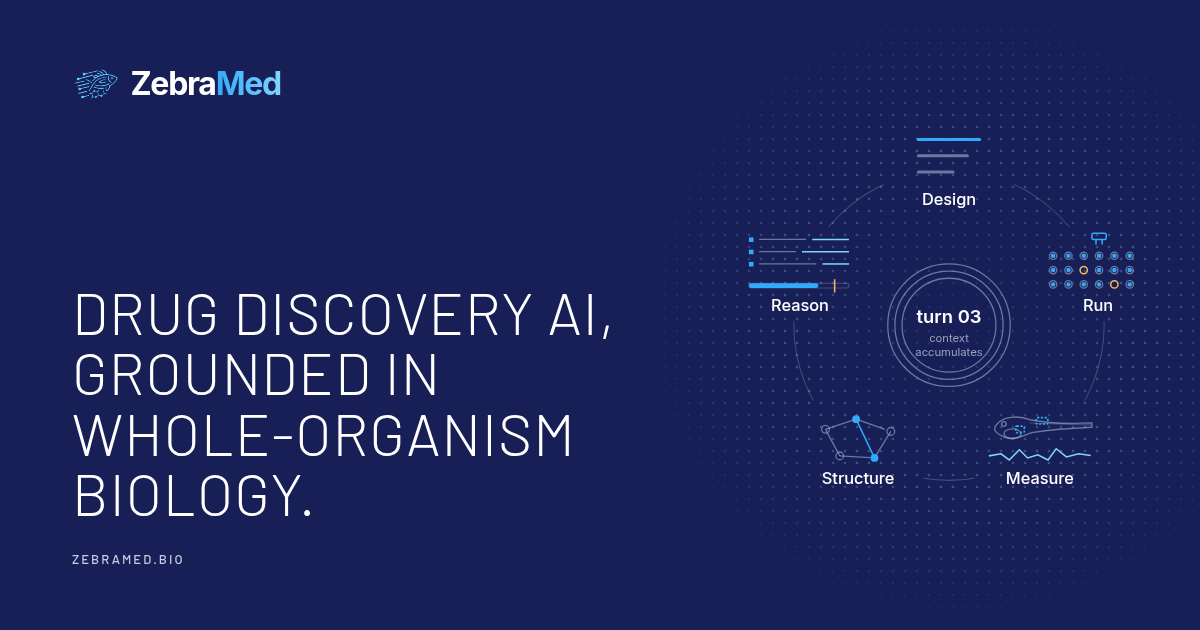
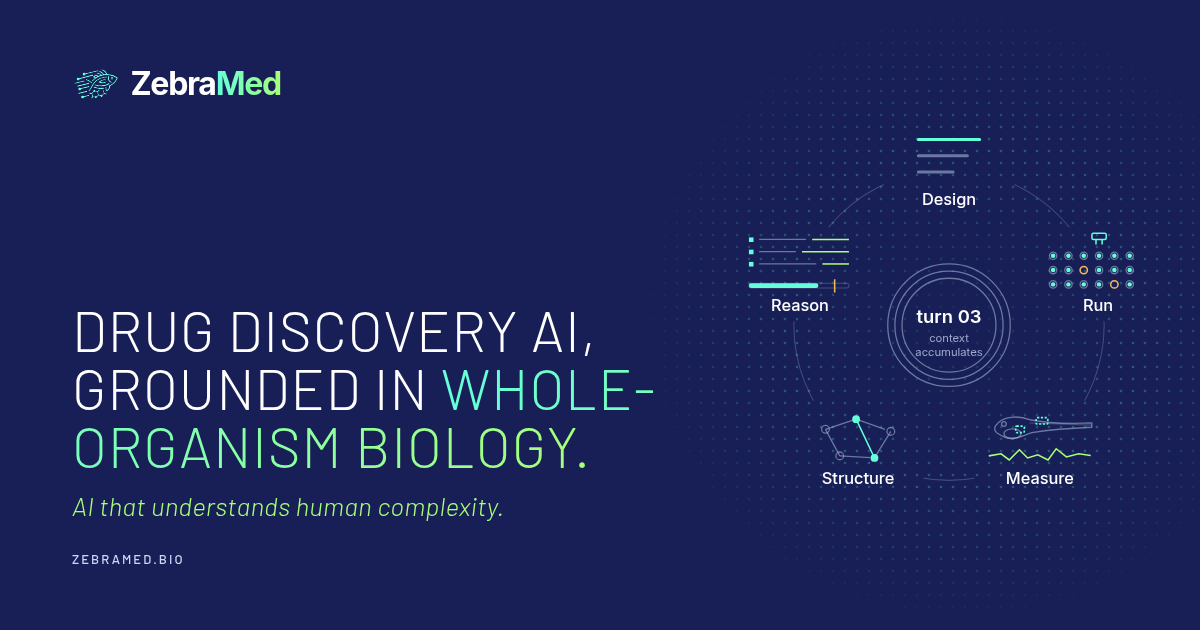
Apply review corrections and return to the ZebraMed palette
Palette back to navy with mint and green accents; the logo in its standard
mint; section titles in mint and the hero phrase "whole-organism biology" in
the mint-to-green gradient. Favicon and share card follow.

Same corrections as on refactor/2026-10:
- vision line "AI that understands human complexity." in italic green under
  the title (Barlow Light Italic added);
- "Standard models are slow and not scalable" replaces "Mammals answer in
  years";
- 2x human translational value and -50% preclinical spend, cleared and
  sourced to the business plan (impact.yml); Impact follows the platform;
- board members get their photos;
- platform: a Run / Structure / Reason selector shows one part's figure and
  text at a time (main.js); without JS all three rows show.

Platform band is now the deep tone so bands keep alternating.

diff --git a/assets/css/tailwind.css b/assets/css/tailwind.css
@@ -1,1 +1,1 @@
-*,:after,:before{--tw-border-spacing-x:0;--tw-border-spacing-y:0;--tw-translate-x:0;--tw-translate-y:0;--tw-rotate:0;--tw-skew-x:0;--tw-skew-y:0;--tw-scale-x:1;--tw-scale-y:1;--tw-pan-x: ;--tw-pan-y: ;--tw-pinch-zoom: ;--tw-scroll-snap-strictness:proximity;--tw-gradient-from-position: ;--tw-gradient-via-position: ;--tw-gradient-to-position: ;--tw-ordinal: ;--tw-slashed-zero: ;--tw-numeric-figure: ;--tw-numeric-spacing: ;--tw-numeric-fraction: ;--tw-ring-inset: ;--tw-ring-offset-width:0px;--tw-ring-offset-color:#fff;--tw-ring-color:rgba(59,130,246,.5);--tw-ring-offset-shadow:0 0 #0000;--tw-ring-shadow:0 0 #0000;--tw-shadow:0 0 #0000;--tw-shadow-colored:0 0 #0000;--tw-blur: ;--tw-brightness: ;--tw-contrast: ;--tw-grayscale: ;--tw-hue-rotate: ;--tw-invert: ;--tw-saturate: ;--tw-sepia: ;--tw-drop-shadow: ;--tw-backdrop-blur: ;--tw-backdrop-brightness: ;--tw-backdrop-contrast: ;--tw-backdrop-grayscale: ;--tw-backdrop-hue-rotate: ;--tw-backdrop-invert: ;--tw-backdrop-opacity: ;--tw-backdrop-saturate: ;--tw-backdrop-sepia: ;--tw-contain-size: ;--tw-contain-layout: ;--tw-contain-paint: ;--tw-contain-style: }::backdrop{--tw-border-spacing-x:0;--tw-border-spacing-y:0;--tw-translate-x:0;--tw-translate-y:0;--tw-rotate:0;--tw-skew-x:0;--tw-skew-y:0;--tw-scale-x:1;--tw-scale-y:1;--tw-pan-x: ;--tw-pan-y: ;--tw-pinch-zoom: ;--tw-scroll-snap-strictness:proximity;--tw-gradient-from-position: ;--tw-gradient-via-position: ;--tw-gradient-to-position: ;--tw-ordinal: ;--tw-slashed-zero: ;--tw-numeric-figure: ;--tw-numeric-spacing: ;--tw-numeric-fraction: ;--tw-ring-inset: ;--tw-ring-offset-width:0px;--tw-ring-offset-color:#fff;--tw-ring-color:rgba(59,130,246,.5);--tw-ring-offset-shadow:0 0 #0000;--tw-ring-shadow:0 0 #0000;--tw-shadow:0 0 #0000;--tw-shadow-colored:0 0 #0000;--tw-blur: ;--tw-brightness: ;--tw-contrast: ;--tw-grayscale: ;--tw-hue-rotate: ;--tw-invert: ;--tw-saturate: ;--tw-sepia: ;--tw-drop-shadow: ;--tw-backdrop-blur: ;--tw-backdrop-brightness: ;--tw-backdrop-contrast: ;--tw-backdrop-grayscale: ;--tw-backdrop-hue-rotate: ;--tw-backdrop-invert: ;--tw-backdrop-opacity: ;--tw-backdrop-saturate: ;--tw-backdrop-sepia: ;--tw-contain-size: ;--tw-contain-layout: ;--tw-contain-paint: ;--tw-contain-style: }/*! tailwindcss v3.4.18 | MIT License | https://tailwindcss.com*/*,:after,:before{box-sizing:border-box;border:0 solid #e5e7eb}:after,:before{--tw-content:""}:host,html{line-height:1.5;-webkit-text-size-adjust:100%;-moz-tab-size:4;-o-tab-size:4;tab-size:4;font-family:Inter,sans-serif;font-feature-settings:normal;font-variation-settings:normal;-webkit-tap-highlight-color:transparent}body{margin:0;line-height:inherit}hr{height:0;color:inherit;border-top-width:1px}abbr:where([title]){-webkit-text-decoration:underline dotted;text-decoration:underline dotted}h1,h2,h3,h4,h5,h6{font-size:inherit;font-weight:inherit}a{color:inherit;text-decoration:inherit}b,strong{font-weight:bolder}code,kbd,pre,samp{font-family:ui-monospace,SFMono-Regular,Menlo,Monaco,Consolas,Liberation Mono,Courier New,monospace;font-feature-settings:normal;font-variation-settings:normal;font-size:1em}small{font-size:80%}sub,sup{font-size:75%;line-height:0;position:relative;vertical-align:baseline}sub{bottom:-.25em}sup{top:-.5em}table{text-indent:0;border-color:inherit;border-collapse:collapse}button,input,optgroup,select,textarea{font-family:inherit;font-feature-settings:inherit;font-variation-settings:inherit;font-size:100%;font-weight:inherit;line-height:inherit;letter-spacing:inherit;color:inherit;margin:0;padding:0}button,select{text-transform:none}button,input:where([type=button]),input:where([type=reset]),input:where([type=submit]){-webkit-appearance:button;background-color:transparent;background-image:none}:-moz-focusring{outline:auto}:-moz-ui-invalid{box-shadow:none}progress{vertical-align:baseline}::-webkit-inner-spin-button,::-webkit-outer-spin-button{height:auto}[type=search]{-webkit-appearance:textfield;outline-offset:-2px}::-webkit-search-decoration{-webkit-appearance:none}::-webkit-file-upload-button{-webkit-appearance:button;font:inherit}summary{display:list-item}blockquote,dd,dl,figure,h1,h2,h3,h4,h5,h6,hr,p,pre{margin:0}fieldset{margin:0}fieldset,legend{padding:0}menu,ol,ul{list-style:none;margin:0;padding:0}dialog{padding:0}textarea{resize:vertical}input::-moz-placeholder,textarea::-moz-placeholder{opacity:1;color:#9ca3af}input::placeholder,textarea::placeholder{opacity:1;color:#9ca3af}[role=button],button{cursor:pointer}:disabled{cursor:default}audio,canvas,embed,iframe,img,object,svg,video{display:block;vertical-align:middle}img,video{max-width:100%;height:auto}[hidden]:where(:not([hidden=until-found])){display:none}.sr-only{position:absolute;width:1px;height:1px;padding:0;margin:-1px;overflow:hidden;clip:rect(0,0,0,0);white-space:nowrap;border-width:0}.pointer-events-none{pointer-events:none}.static{position:static}.fixed{position:fixed}.absolute{position:absolute}.relative{position:relative}.inset-y-0{top:0;bottom:0}.left-0{left:0}.right-0{right:0}.z-10{z-index:10}.mx-auto{margin-left:auto;margin-right:auto}.mb-10{margin-bottom:2.5rem}.mb-4{margin-bottom:1rem}.mb-6{margin-bottom:1.5rem}.mb-8{margin-bottom:2rem}.mt-1{margin-top:.25rem}.mt-10{margin-top:2.5rem}.mt-14{margin-top:3.5rem}.mt-2{margin-top:.5rem}.mt-3{margin-top:.75rem}.mt-5{margin-top:1.25rem}.mt-6{margin-top:1.5rem}.mt-8{margin-top:2rem}.flex{display:flex}.inline-flex{display:inline-flex}.grid{display:grid}.hidden{display:none}.h-32{height:8rem}.h-4{height:1rem}.h-5{height:1.25rem}.h-6{height:1.5rem}.h-8{height:2rem}.min-h-screen{min-height:100vh}.w-16{width:4rem}.w-32{width:8rem}.w-4{width:1rem}.w-5{width:1.25rem}.w-6{width:1.5rem}.w-8{width:2rem}.w-full{width:100%}.max-w-2xl{max-width:42rem}.transform{transform:translate(var(--tw-translate-x),var(--tw-translate-y)) rotate(var(--tw-rotate)) skewX(var(--tw-skew-x)) skewY(var(--tw-skew-y)) scaleX(var(--tw-scale-x)) scaleY(var(--tw-scale-y))}.resize{resize:both}.flex-col{flex-direction:column}.items-center{align-items:center}.justify-center{justify-content:center}.justify-between{justify-content:space-between}.gap-2{gap:.5rem}.gap-4{gap:1rem}.gap-8{gap:2rem}.overflow-hidden{overflow:hidden}.overflow-x-hidden{overflow-x:hidden}.scroll-smooth{scroll-behavior:smooth}.rounded-full{border-radius:9999px}.rounded-md{border-radius:.375rem}.border{border-width:1px}.border-2{border-width:2px}.border-accent-primary{--tw-border-opacity:1;border-color:rgb(50 170 251/var(--tw-border-opacity,1))}.border-gray-600{--tw-border-opacity:1;border-color:rgb(75 85 99/var(--tw-border-opacity,1))}.p-8{padding:2rem}.px-4{padding-left:1rem;padding-right:1rem}.px-5{padding-left:1.25rem;padding-right:1.25rem}.py-16{padding-top:4rem;padding-bottom:4rem}.py-2\.5{padding-top:.625rem;padding-bottom:.625rem}.text-center{text-align:center}.text-lg{font-size:1.125rem;line-height:1.75rem}.text-sm{font-size:.875rem;line-height:1.25rem}.text-xs{font-size:.75rem;line-height:1rem}.font-medium{font-weight:500}.not-italic{font-style:normal}.leading-relaxed{line-height:1.625}.text-accent-primary{--tw-text-opacity:1;color:rgb(50 170 251/var(--tw-text-opacity,1))}.text-text-light{--tw-text-opacity:1;color:rgb(255 255 255/var(--tw-text-opacity,1))}.text-text-medium{--tw-text-opacity:1;color:rgb(196 203 224/var(--tw-text-opacity,1))}.antialiased{-webkit-font-smoothing:antialiased;-moz-osx-font-smoothing:grayscale}.opacity-50{opacity:.5}.transition-colors{transition-property:color,background-color,border-color,text-decoration-color,fill,stroke;transition-timing-function:cubic-bezier(.4,0,.2,1);transition-duration:.15s}.hover\:border-accent-primary:hover{--tw-border-opacity:1;border-color:rgb(50 170 251/var(--tw-border-opacity,1))}.hover\:bg-accent-primary:hover{--tw-bg-opacity:1;background-color:rgb(50 170 251/var(--tw-bg-opacity,1))}.hover\:text-accent-primary:hover{--tw-text-opacity:1;color:rgb(50 170 251/var(--tw-text-opacity,1))}.hover\:text-bg-dark:hover{--tw-text-opacity:1;color:rgb(23 31 86/var(--tw-text-opacity,1))}.focus\:not-sr-only:focus{position:static;width:auto;height:auto;padding:0;margin:0;overflow:visible;clip:auto;white-space:normal}.focus\:absolute:focus{position:absolute}.focus\:left-4:focus{left:1rem}.focus\:top-4:focus{top:1rem}.focus\:z-50:focus{z-index:50}.focus\:rounded-md:focus{border-radius:.375rem}.focus\:bg-accent-primary:focus{--tw-bg-opacity:1;background-color:rgb(50 170 251/var(--tw-bg-opacity,1))}.focus\:px-4:focus{padding-left:1rem;padding-right:1rem}.focus\:py-2:focus{padding-top:.5rem;padding-bottom:.5rem}.focus\:text-bg-dark:focus{--tw-text-opacity:1;color:rgb(23 31 86/var(--tw-text-opacity,1))}@media (min-width:640px){.sm\:inline{display:inline}.sm\:flex-row{flex-direction:row}.sm\:px-6{padding-left:1.5rem;padding-right:1.5rem}.sm\:text-left{text-align:left}}@media (min-width:768px){.md\:mt-16{margin-top:4rem}.md\:flex{display:flex}.md\:hidden{display:none}.md\:h-40{height:10rem}.md\:w-40{width:10rem}.md\:flex-row{flex-direction:row}.md\:p-12{padding:3rem}}
+*,:after,:before{--tw-border-spacing-x:0;--tw-border-spacing-y:0;--tw-translate-x:0;--tw-translate-y:0;--tw-rotate:0;--tw-skew-x:0;--tw-skew-y:0;--tw-scale-x:1;--tw-scale-y:1;--tw-pan-x: ;--tw-pan-y: ;--tw-pinch-zoom: ;--tw-scroll-snap-strictness:proximity;--tw-gradient-from-position: ;--tw-gradient-via-position: ;--tw-gradient-to-position: ;--tw-ordinal: ;--tw-slashed-zero: ;--tw-numeric-figure: ;--tw-numeric-spacing: ;--tw-numeric-fraction: ;--tw-ring-inset: ;--tw-ring-offset-width:0px;--tw-ring-offset-color:#fff;--tw-ring-color:rgba(59,130,246,.5);--tw-ring-offset-shadow:0 0 #0000;--tw-ring-shadow:0 0 #0000;--tw-shadow:0 0 #0000;--tw-shadow-colored:0 0 #0000;--tw-blur: ;--tw-brightness: ;--tw-contrast: ;--tw-grayscale: ;--tw-hue-rotate: ;--tw-invert: ;--tw-saturate: ;--tw-sepia: ;--tw-drop-shadow: ;--tw-backdrop-blur: ;--tw-backdrop-brightness: ;--tw-backdrop-contrast: ;--tw-backdrop-grayscale: ;--tw-backdrop-hue-rotate: ;--tw-backdrop-invert: ;--tw-backdrop-opacity: ;--tw-backdrop-saturate: ;--tw-backdrop-sepia: ;--tw-contain-size: ;--tw-contain-layout: ;--tw-contain-paint: ;--tw-contain-style: }::backdrop{--tw-border-spacing-x:0;--tw-border-spacing-y:0;--tw-translate-x:0;--tw-translate-y:0;--tw-rotate:0;--tw-skew-x:0;--tw-skew-y:0;--tw-scale-x:1;--tw-scale-y:1;--tw-pan-x: ;--tw-pan-y: ;--tw-pinch-zoom: ;--tw-scroll-snap-strictness:proximity;--tw-gradient-from-position: ;--tw-gradient-via-position: ;--tw-gradient-to-position: ;--tw-ordinal: ;--tw-slashed-zero: ;--tw-numeric-figure: ;--tw-numeric-spacing: ;--tw-numeric-fraction: ;--tw-ring-inset: ;--tw-ring-offset-width:0px;--tw-ring-offset-color:#fff;--tw-ring-color:rgba(59,130,246,.5);--tw-ring-offset-shadow:0 0 #0000;--tw-ring-shadow:0 0 #0000;--tw-shadow:0 0 #0000;--tw-shadow-colored:0 0 #0000;--tw-blur: ;--tw-brightness: ;--tw-contrast: ;--tw-grayscale: ;--tw-hue-rotate: ;--tw-invert: ;--tw-saturate: ;--tw-sepia: ;--tw-drop-shadow: ;--tw-backdrop-blur: ;--tw-backdrop-brightness: ;--tw-backdrop-contrast: ;--tw-backdrop-grayscale: ;--tw-backdrop-hue-rotate: ;--tw-backdrop-invert: ;--tw-backdrop-opacity: ;--tw-backdrop-saturate: ;--tw-backdrop-sepia: ;--tw-contain-size: ;--tw-contain-layout: ;--tw-contain-paint: ;--tw-contain-style: }/*! tailwindcss v3.4.18 | MIT License | https://tailwindcss.com*/*,:after,:before{box-sizing:border-box;border:0 solid #e5e7eb}:after,:before{--tw-content:""}:host,html{line-height:1.5;-webkit-text-size-adjust:100%;-moz-tab-size:4;-o-tab-size:4;tab-size:4;font-family:Inter,sans-serif;font-feature-settings:normal;font-variation-settings:normal;-webkit-tap-highlight-color:transparent}body{margin:0;line-height:inherit}hr{height:0;color:inherit;border-top-width:1px}abbr:where([title]){-webkit-text-decoration:underline dotted;text-decoration:underline dotted}h1,h2,h3,h4,h5,h6{font-size:inherit;font-weight:inherit}a{color:inherit;text-decoration:inherit}b,strong{font-weight:bolder}code,kbd,pre,samp{font-family:ui-monospace,SFMono-Regular,Menlo,Monaco,Consolas,Liberation Mono,Courier New,monospace;font-feature-settings:normal;font-variation-settings:normal;font-size:1em}small{font-size:80%}sub,sup{font-size:75%;line-height:0;position:relative;vertical-align:baseline}sub{bottom:-.25em}sup{top:-.5em}table{text-indent:0;border-color:inherit;border-collapse:collapse}button,input,optgroup,select,textarea{font-family:inherit;font-feature-settings:inherit;font-variation-settings:inherit;font-size:100%;font-weight:inherit;line-height:inherit;letter-spacing:inherit;color:inherit;margin:0;padding:0}button,select{text-transform:none}button,input:where([type=button]),input:where([type=reset]),input:where([type=submit]){-webkit-appearance:button;background-color:transparent;background-image:none}:-moz-focusring{outline:auto}:-moz-ui-invalid{box-shadow:none}progress{vertical-align:baseline}::-webkit-inner-spin-button,::-webkit-outer-spin-button{height:auto}[type=search]{-webkit-appearance:textfield;outline-offset:-2px}::-webkit-search-decoration{-webkit-appearance:none}::-webkit-file-upload-button{-webkit-appearance:button;font:inherit}summary{display:list-item}blockquote,dd,dl,figure,h1,h2,h3,h4,h5,h6,hr,p,pre{margin:0}fieldset{margin:0}fieldset,legend{padding:0}menu,ol,ul{list-style:none;margin:0;padding:0}dialog{padding:0}textarea{resize:vertical}input::-moz-placeholder,textarea::-moz-placeholder{opacity:1;color:#9ca3af}input::placeholder,textarea::placeholder{opacity:1;color:#9ca3af}[role=button],button{cursor:pointer}:disabled{cursor:default}audio,canvas,embed,iframe,img,object,svg,video{display:block;vertical-align:middle}img,video{max-width:100%;height:auto}[hidden]:where(:not([hidden=until-found])){display:none}.sr-only{position:absolute;width:1px;height:1px;padding:0;margin:-1px;overflow:hidden;clip:rect(0,0,0,0);white-space:nowrap;border-width:0}.pointer-events-none{pointer-events:none}.static{position:static}.fixed{position:fixed}.absolute{position:absolute}.relative{position:relative}.inset-y-0{top:0;bottom:0}.left-0{left:0}.right-0{right:0}.z-10{z-index:10}.mx-auto{margin-left:auto;margin-right:auto}.mb-10{margin-bottom:2.5rem}.mb-4{margin-bottom:1rem}.mb-6{margin-bottom:1.5rem}.mb-8{margin-bottom:2rem}.mt-1{margin-top:.25rem}.mt-10{margin-top:2.5rem}.mt-14{margin-top:3.5rem}.mt-2{margin-top:.5rem}.mt-3{margin-top:.75rem}.mt-5{margin-top:1.25rem}.mt-6{margin-top:1.5rem}.mt-8{margin-top:2rem}.flex{display:flex}.inline-flex{display:inline-flex}.grid{display:grid}.hidden{display:none}.h-32{height:8rem}.h-4{height:1rem}.h-5{height:1.25rem}.h-6{height:1.5rem}.h-8{height:2rem}.min-h-screen{min-height:100vh}.w-16{width:4rem}.w-32{width:8rem}.w-4{width:1rem}.w-5{width:1.25rem}.w-6{width:1.5rem}.w-8{width:2rem}.w-full{width:100%}.max-w-2xl{max-width:42rem}.transform{transform:translate(var(--tw-translate-x),var(--tw-translate-y)) rotate(var(--tw-rotate)) skewX(var(--tw-skew-x)) skewY(var(--tw-skew-y)) scaleX(var(--tw-scale-x)) scaleY(var(--tw-scale-y))}.resize{resize:both}.flex-col{flex-direction:column}.items-center{align-items:center}.justify-center{justify-content:center}.justify-between{justify-content:space-between}.gap-2{gap:.5rem}.gap-4{gap:1rem}.gap-8{gap:2rem}.overflow-hidden{overflow:hidden}.overflow-x-hidden{overflow-x:hidden}.scroll-smooth{scroll-behavior:smooth}.rounded-full{border-radius:9999px}.rounded-md{border-radius:.375rem}.border{border-width:1px}.border-2{border-width:2px}.border-accent-primary{--tw-border-opacity:1;border-color:rgb(100 255 218/var(--tw-border-opacity,1))}.border-gray-600{--tw-border-opacity:1;border-color:rgb(75 85 99/var(--tw-border-opacity,1))}.p-8{padding:2rem}.px-4{padding-left:1rem;padding-right:1rem}.px-5{padding-left:1.25rem;padding-right:1.25rem}.py-16{padding-top:4rem;padding-bottom:4rem}.py-2\.5{padding-top:.625rem;padding-bottom:.625rem}.text-center{text-align:center}.text-lg{font-size:1.125rem;line-height:1.75rem}.text-sm{font-size:.875rem;line-height:1.25rem}.text-xs{font-size:.75rem;line-height:1rem}.font-medium{font-weight:500}.not-italic{font-style:normal}.leading-relaxed{line-height:1.625}.text-accent-primary{--tw-text-opacity:1;color:rgb(100 255 218/var(--tw-text-opacity,1))}.text-text-light{--tw-text-opacity:1;color:rgb(255 255 255/var(--tw-text-opacity,1))}.text-text-medium{--tw-text-opacity:1;color:rgb(204 214 246/var(--tw-text-opacity,1))}.antialiased{-webkit-font-smoothing:antialiased;-moz-osx-font-smoothing:grayscale}.opacity-50{opacity:.5}.transition-colors{transition-property:color,background-color,border-color,text-decoration-color,fill,stroke;transition-timing-function:cubic-bezier(.4,0,.2,1);transition-duration:.15s}.hover\:border-accent-primary:hover{--tw-border-opacity:1;border-color:rgb(100 255 218/var(--tw-border-opacity,1))}.hover\:bg-accent-primary:hover{--tw-bg-opacity:1;background-color:rgb(100 255 218/var(--tw-bg-opacity,1))}.hover\:text-accent-primary:hover{--tw-text-opacity:1;color:rgb(100 255 218/var(--tw-text-opacity,1))}.hover\:text-bg-dark:hover{--tw-text-opacity:1;color:rgb(23 31 86/var(--tw-text-opacity,1))}.focus\:not-sr-only:focus{position:static;width:auto;height:auto;padding:0;margin:0;overflow:visible;clip:auto;white-space:normal}.focus\:absolute:focus{position:absolute}.focus\:left-4:focus{left:1rem}.focus\:top-4:focus{top:1rem}.focus\:z-50:focus{z-index:50}.focus\:rounded-md:focus{border-radius:.375rem}.focus\:bg-accent-primary:focus{--tw-bg-opacity:1;background-color:rgb(100 255 218/var(--tw-bg-opacity,1))}.focus\:px-4:focus{padding-left:1rem;padding-right:1rem}.focus\:py-2:focus{padding-top:.5rem;padding-bottom:.5rem}.focus\:text-bg-dark:focus{--tw-text-opacity:1;color:rgb(23 31 86/var(--tw-text-opacity,1))}@media (min-width:640px){.sm\:inline{display:inline}.sm\:flex-row{flex-direction:row}.sm\:px-6{padding-left:1.5rem;padding-right:1.5rem}.sm\:text-left{text-align:left}}@media (min-width:768px){.md\:mt-16{margin-top:4rem}.md\:flex{display:flex}.md\:hidden{display:none}.md\:h-40{height:10rem}.md\:w-40{width:10rem}.md\:flex-row{flex-direction:row}.md\:p-12{padding:3rem}}

diff --git a/assets/css/main.scss b/assets/css/main.scss
@@ -27,24 +27,25 @@ Version:    3.0 (refactor/2026-10, restyle)
 @font-face { font-family: 'Inter'; font-style: normal; font-weight: 600; font-display: swap; src: url('/assets/fonts/inter/Inter-SemiBold.woff2') format('woff2'); }
 @font-face { font-family: 'Inter'; font-style: normal; font-weight: 700; font-display: swap; src: url('/assets/fonts/inter/Inter-Bold.woff2') format('woff2'); }
 @font-face { font-family: 'Barlow'; font-style: normal; font-weight: 300; font-display: swap; src: url('/assets/fonts/barlow/Barlow-Light.woff2') format('woff2'); }
+@font-face { font-family: 'Barlow'; font-style: italic; font-weight: 300; font-display: swap; src: url('/assets/fonts/barlow/Barlow-LightItalic.woff2') format('woff2'); }
 @font-face { font-family: 'Barlow'; font-style: normal; font-weight: 500; font-display: swap; src: url('/assets/fonts/barlow/Barlow-Medium.woff2') format('woff2'); }
 
 /* 1. TOKENS
-   Colours come from the logo file: a navy ground, the logo's sky blue for
-   actions and live elements, its light cyan for results and highlights.
+   The ZebraMed palette: a navy ground, mint for actions and the live
+   element, green for results and highlights.
 -------------------------------------------------------------------*/
 :root {
     --color-bg-dark: #171F56;
     --color-bg-dark-rgb: 23, 31, 86;
     --color-bg-deep: #11174a;
     --color-text-light: #ffffff;
-    --color-text-bright: #eef2fb;
-    --color-text-medium: #c4cbe0;
-    --color-text-light-rgb: 196, 203, 224;
-    --color-accent-primary: #32aafb;      /* logo sky: actions, the live element */
-    --color-accent-primary-rgb: 50, 170, 251;
-    --color-accent-secondary: #80d4ff;    /* logo cyan: results, highlights */
-    --color-accent-secondary-rgb: 128, 212, 255;
+    --color-text-bright: #e6f1ff;
+    --color-text-medium: #ccd6f6;
+    --color-text-light-rgb: 204, 214, 246;
+    --color-accent-primary: #64ffda;      /* mint: actions, the live element */
+    --color-accent-primary-rgb: 100, 255, 218;
+    --color-accent-secondary: #a8ff78;    /* green: results, highlights */
+    --color-accent-secondary-rgb: 168, 255, 120;
     --color-flag: #f5b85c;                /* exclusions, thresholds, pending */
     --color-line: #9fb0d0;                /* structure strokes, used at low opacity */
     --color-line-rgb: 159, 176, 208;
@@ -86,7 +87,13 @@ p { max-width: 62ch; color: var(--color-text-medium); }
     font-family: var(--font-family-display);
     font-weight: 300; text-transform: uppercase; letter-spacing: 0.05em;
     font-size: clamp(1.875rem, 3.6vw, 2.875rem); line-height: 1.08;
-    color: var(--color-text-light);
+    color: var(--color-accent-primary);
+}
+/* the vision line under the hero title */
+.vision {
+    font-family: var(--font-family-display); font-style: italic; font-weight: 300;
+    font-size: clamp(1.375rem, 2.4vw, 1.75rem); line-height: 1.3; letter-spacing: 0.01em;
+    color: var(--color-accent-secondary); margin-top: 1.25rem;
 }
 .title-sm { font-size: clamp(1.5rem, 2.6vw, 2rem); letter-spacing: 0.04em; }
 .h3 { font-family: var(--font-family-display); font-weight: 500; font-size: 1.5rem; line-height: 1.2; color: var(--color-text-light); }
@@ -127,7 +134,7 @@ p { max-width: 62ch; color: var(--color-text-medium); }
 
 .logo-mask {
     display: inline-block; width: 36px; height: 36px;
-    background: linear-gradient(135deg, var(--color-accent-secondary), var(--color-accent-primary));
+    background-color: var(--color-accent-primary);
     -webkit-mask: url('/assets/images/zebramed_logo.svg') no-repeat center / contain;
     mask: url('/assets/images/zebramed_logo.svg') no-repeat center / contain;
 }
@@ -182,8 +189,8 @@ p { max-width: 62ch; color: var(--color-text-medium); }
 }
 .btn-sm { padding: 0.55rem 1rem; font-size: 0.8125rem; }
 @media (max-width: 479px) { .header-actions .btn-sm { padding: 0.45rem 0.75rem; font-size: 0.75rem; letter-spacing: 0.08em; } .brand-title { font-size: 1.25rem; } .brand .logo-mask { width: 32px; height: 32px; } }
-.btn-solid { background: var(--color-accent-primary); color: #0b1240; border: 1px solid var(--color-accent-primary); }
-.btn-solid:hover { background: #63c0fc; border-color: #63c0fc; }
+.btn-solid { background: var(--color-accent-primary); color: var(--color-bg-dark); border: 1px solid var(--color-accent-primary); }
+.btn-solid:hover { background: #8fffe6; border-color: #8fffe6; }
 .btn-outline { background: transparent; color: var(--color-text-light); border: 1px solid rgba(var(--color-accent-primary-rgb), 0.6); }
 .btn-outline:hover { background: rgba(var(--color-accent-primary-rgb), 0.1); border-color: var(--color-accent-primary); }
 .btn.is-pending { opacity: 0.55; cursor: not-allowed; }
@@ -309,7 +316,7 @@ html[data-motion="playing"] .fig-wall.is-drawn .series { stroke-dashoffset: 0; }
 .ix .n-behav { fill: var(--color-accent-secondary); }
 .ix .n-tx    { fill: var(--color-text-medium); }
 /* a halo in the plate colour keeps labels clear where an edge passes */
-.ix text { paint-order: stroke; stroke: #1c2459; stroke-width: 4px; stroke-linejoin: round; }
+.ix text { paint-order: stroke; stroke: #191f50; stroke-width: 4px; stroke-linejoin: round; }
 
 /* 6. SECTIONS
 -------------------------------------------------------------------*/
@@ -324,7 +331,7 @@ html[data-motion="playing"] .fig-wall.is-drawn .series { stroke-dashoffset: 0; }
 /* a halftone field behind the ring, thinning towards the edges */
 .hero-art::before {
     content: ''; position: absolute; inset: -14% -20% -14% -14%; z-index: 0; pointer-events: none;
-    background-image: radial-gradient(rgba(var(--color-accent-secondary-rgb), 0.3) 1.1px, transparent 1.7px);
+    background-image: radial-gradient(rgba(var(--color-accent-primary-rgb), 0.26) 1.1px, transparent 1.7px);
     background-size: 12px 12px;
     -webkit-mask-image: radial-gradient(closest-side, rgba(0, 0, 0, 0.15), #000 55%, transparent 100%);
     mask-image: radial-gradient(closest-side, rgba(0, 0, 0, 0.15), #000 55%, transparent 100%);
@@ -400,6 +407,34 @@ html[data-motion="playing"] .fig-wall.is-drawn .series { stroke-dashoffset: 0; }
 }
 .row-text > p:not(.label) { margin-top: 1.25rem; }
 
+/* platform: select a part to see its figure and text (main.js adds .is-enhanced
+   and unhides the bar; without JS all three rows show) */
+.select-bar { display: grid; grid-template-columns: repeat(3, minmax(0, 1fr)); gap: 0.75rem; margin-top: 4rem; }
+.select-bar[hidden] { display: none; }
+.select-bar button {
+    display: flex; flex-direction: column; align-items: flex-start; gap: 0.35rem;
+    padding: 1rem 0 0; background: none; border: 0; border-top: 2px solid rgba(var(--color-line-rgb), 0.25);
+    font: inherit; text-align: left; cursor: pointer; transition: border-color 200ms ease;
+}
+.select-bar .label { color: rgba(var(--color-text-light-rgb), 0.6); }
+.select-name {
+    font-family: var(--font-family-display); font-weight: 300; text-transform: uppercase; letter-spacing: 0.05em;
+    font-size: clamp(1.125rem, 2vw, 1.5rem); color: var(--color-text-medium); transition: color 200ms ease;
+}
+@media (max-width: 479px) { .select-name { font-size: 0.875rem; letter-spacing: 0.03em; } }
+.select-bar button:hover { border-top-color: rgba(var(--color-accent-primary-rgb), 0.6); }
+.select-bar button.is-active { border-top-color: var(--color-accent-primary); }
+.select-bar button.is-active .label { color: var(--color-accent-secondary); }
+.select-bar button.is-active .select-name { color: var(--color-accent-primary); }
+.is-enhanced .rows { margin-top: 3rem; }
+.is-enhanced [data-select-panel]:not(.is-active) { display: none; }
+.is-enhanced .row.is-active { animation: select-in 300ms ease; }
+@keyframes select-in { from { opacity: 0; transform: translateY(4px); } to { opacity: 1; transform: none; } }
+@media (min-width: 900px) {
+    .is-enhanced .row.is-flipped { grid-template-columns: 1.1fr 1fr; }
+    .is-enhanced .row.is-flipped .plate { order: 0; }
+}
+
 /* team */
 .person-photo { width: 112px; height: 112px; border-radius: 50%; object-fit: cover; border: 1px solid rgba(var(--color-line-rgb), 0.3); }
 .person-name { font-family: var(--font-family-display); font-weight: 500; font-size: 1.375rem; line-height: 1.2; color: var(--color-text-light); margin-top: 1.5rem; }
@@ -410,6 +445,7 @@ html[data-motion="playing"] .fig-wall.is-drawn .series { stroke-dashoffset: 0; }
 .board { margin-top: 6rem; padding-top: 4rem; border-top: 1px solid rgba(var(--color-line-rgb), 0.14); }
 .board > div { margin-top: 2.5rem; }
 .member p { font-size: 0.9375rem; }
+.member-photo { display: block; width: 56px; height: 56px; border-radius: 50%; object-fit: cover; border: 1px solid rgba(var(--color-line-rgb), 0.3); margin-bottom: 0.875rem; }
 .mentors { margin-top: 3rem; font-size: 0.875rem; color: rgba(var(--color-text-light-rgb), 0.62); max-width: 60ch; }
 .mentors.is-alone { margin-top: 0; }
 
@@ -431,7 +467,7 @@ html[data-motion="playing"] .fig-wall.is-drawn .series { stroke-dashoffset: 0; }
 .closing { background: var(--color-bg-deep); overflow: hidden; text-align: center; }
 .closing::before {
     content: ''; position: absolute; inset: 0; pointer-events: none;
-    background-image: radial-gradient(rgba(var(--color-accent-secondary-rgb), 0.24) 1px, transparent 1.6px);
+    background-image: radial-gradient(rgba(var(--color-accent-primary-rgb), 0.2) 1px, transparent 1.6px);
     background-size: 14px 14px;
     -webkit-mask-image: radial-gradient(ellipse 70% 90% at 50% 100%, #000, transparent 70%);
     mask-image: radial-gradient(ellipse 70% 90% at 50% 100%, #000, transparent 70%);
@@ -455,4 +491,5 @@ html[data-motion="playing"] .fig-wall.is-drawn .series { stroke-dashoffset: 0; }
     .fig-wall .series { transition: none; stroke-dashoffset: 0 !important; }
     .fig-wall .wall, .fig-wall .wall-label { opacity: 1; transition: none; }
     .cue svg, .nav-link::after, .btn, .site-header { transition: none; }
+    .is-enhanced .row.is-active { animation: none; }
 }

diff --git a/_includes/solution.html b/_includes/solution.html
@@ -1,4 +1,4 @@
-<section id="platform" class="section band">
+<section id="platform" class="section band band-deep">
   <div class="wrap">
     <header class="section-head">
         <h2 class="title">The platform</h2>
@@ -8,8 +8,14 @@
         </p>
     </header>
 
-    <div class="rows">
-        <article class="row">
+    <div class="platform-select" data-select-group>
+    <div class="select-bar" role="group" aria-label="Parts of the platform" data-select-bar hidden>
+        <button type="button" data-select="biofoundry" aria-controls="pt-biofoundry"><span class="label">Run</span><span class="select-name">Biofoundry</span></button>
+        <button type="button" data-select="interactome" aria-controls="pt-interactome"><span class="label">Structure</span><span class="select-name">Interactome</span></button>
+        <button type="button" data-select="xenoex" aria-controls="pt-xenoex"><span class="label">Reason</span><span class="select-name">XenoEx</span></button>
+    </div>
+    <div class="rows" aria-live="polite">
+        <article class="row" id="pt-biofoundry" data-select-panel="biofoundry">
             <figure class="plate">
                 {% include figures/biofoundry.html %}
             </figure>
@@ -26,10 +32,10 @@
             </div>
         </article>
 
-        <article class="row is-flipped">
+        <article class="row is-flipped" id="pt-interactome" data-select-panel="interactome">
             <figure class="plate">
                 {% include figures/interactome.html %}
-                <figcaption class="plate-note">Organ states in blue, behaviour in cyan, transcripts in grey.</figcaption>
+                <figcaption class="plate-note">Organ states in teal, behaviour in green, transcripts in grey.</figcaption>
             </figure>
             <div class="row-text">
                 <p class="label">Structure</p>
@@ -44,7 +50,7 @@
             </div>
         </article>
 
-        <article class="row">
+        <article class="row" id="pt-xenoex" data-select-panel="xenoex">
             <figure class="plate">
                 {% include figures/xenoex.html %}
             </figure>
@@ -60,6 +66,7 @@
                 </p>
             </div>
         </article>
+    </div>
     </div>
 
     <p class="plate-legal">Figures are illustrative, with fictional data.</p>

diff --git a/assets/js/main.js b/assets/js/main.js
@@ -55,6 +55,34 @@ document.addEventListener('DOMContentLoaded', function () {
         resizeTimer = setTimeout(initSeamlessCarousel, 250);
     });
 
+    // --- Select a part to read about it ---
+    // [data-select-group] holds controls ([data-select="key"]) and descriptions
+    // ([data-select-panel="key"]). Without JS every description shows; with it,
+    // one at a time, starting with the first control.
+    document.querySelectorAll('[data-select-group]').forEach(group => {
+        const controls = [...group.querySelectorAll('[data-select]')];
+        const panels = [...group.querySelectorAll('[data-select-panel]')];
+        if (!controls.length || !panels.length) return;
+        const show = key => {
+            controls.forEach(c => {
+                const on = c.dataset.select === key;
+                c.classList.toggle('is-active', on);
+                c.setAttribute('aria-pressed', String(on));
+            });
+            panels.forEach(p => p.classList.toggle('is-active', p.dataset.selectPanel === key));
+        };
+        controls.forEach(c => {
+            if (c.tagName !== 'BUTTON') { c.setAttribute('role', 'button'); c.tabIndex = 0; }
+            c.addEventListener('click', () => show(c.dataset.select));
+            c.addEventListener('keydown', e => {
+                if (e.key === 'Enter' || e.key === ' ') { e.preventDefault(); show(c.dataset.select); }
+            });
+        });
+        group.querySelectorAll('[data-select-bar]').forEach(bar => { bar.hidden = false; });
+        group.classList.add('is-enhanced');
+        show(controls[0].dataset.select);
+    });
+
     // --- Sticky header, mobile menu, active section ---
     const siteHeader = document.getElementById('site-header');
     const mobileMenuBtn = document.getElementById('mobile-menu-btn');

diff --git a/_includes/team.html b/_includes/team.html
@@ -39,6 +39,7 @@
                 {% for m in g.members %}
                 {% if prod and m.pending %}{% continue %}{% endif %}
                 <article class="member">
+                    {% if m.photo %}<img src="{{ '/assets/images/' | append: m.photo | relative_url }}" alt="{{ m.name }}" loading="lazy" width="56" height="56" class="member-photo">{% endif %}
                     <h4 class="h4">{% if m.title %}{{ m.title }} {% endif %}{{ m.name }}</h4>
                     <p class="mt-2 text-sm">{{ m.line }}</p>
                     {% if m.linkedin != "" %}<p class="mt-2 text-sm links"><a href="{{ m.linkedin }}" target="_blank" rel="noopener noreferrer">LinkedIn</a></p>{% endif %}

diff --git a/_includes/hero.html b/_includes/hero.html
@@ -2,7 +2,8 @@
     <div class="wrap hero-grid">
 
         <div class="hero-copy">
-            <h1 class="display">Drug discovery AI, grounded in whole-organism biology.</h1>
+            <h1 class="display">Drug discovery AI, grounded in <span class="gradient-text">whole-organism biology.</span></h1>
+            <p class="vision">AI that understands human complexity.</p>
             <p class="lede">
                 Our automated biofoundry follows the same zebrafish larvae over several days. The
                 Multi-Species Systemic Interactome joins that data with in vitro models and human

diff --git a/_includes/impact.html b/_includes/impact.html
@@ -2,7 +2,7 @@
 {% assign prod = false %}{% if jekyll.environment == "production" %}{% assign prod = true %}{% endif %}
 {% assign shown = 0 %}{% for m in im.measures %}{% unless prod and m.pending %}{% assign shown = shown | plus: 1 %}{% endunless %}{% endfor %}
 {% if shown > 0 %}
-<section id="impact" class="section band band-deep impact">
+<section id="impact" class="section band impact">
   <div class="wrap">
     <h2 class="title title-sm text-center">{{ im.statement }}</h2>
     <div class="numerals" style="--cols: {{ shown }}">

diff --git a/tailwind.config.js b/tailwind.config.js
@@ -14,11 +14,11 @@ module.exports = {
       colors: {
         'bg-dark': '#171F56',
         'text-light': '#ffffff',
-        'text-bright': '#eef2fb',
-        'text-medium': '#c4cbe0',
+        'text-bright': '#e6f1ff',
+        'text-medium': '#ccd6f6',
         'flag': '#f5b85c',
-        'accent-primary': '#32aafb',
-        'accent-secondary': '#80d4ff',
+        'accent-primary': '#64ffda',
+        'accent-secondary': '#a8ff78',
       },
       fontFamily: {
         sans: ['Inter', 'sans-serif'],

diff --git a/_includes/problem.html b/_includes/problem.html
@@ -24,7 +24,7 @@
             </p>
         </div>
         <div class="cause">
-            <h3 class="h4">Mammals answer in years</h3>
+            <h3 class="h4">Standard models are slow and not scalable</h3>
             <p>
                 Rodent studies capture systemic effects, after 18 to 24 months and grams of
                 synthesised compound. Organoids need months to mature and still model one tissue.
@@ -53,5 +53,3 @@
     {% endif %}
   </div>
 </section>
-
-{% include impact.html %}

diff --git a/index.html b/index.html
@@ -10,6 +10,7 @@ description: >-
 {% include hero.html %}
 {% include problem.html %}
 {% include solution.html %}
+{% include impact.html %}
 {% include team.html %}
 {% include traction.html %}
 {% include cta.html %}
